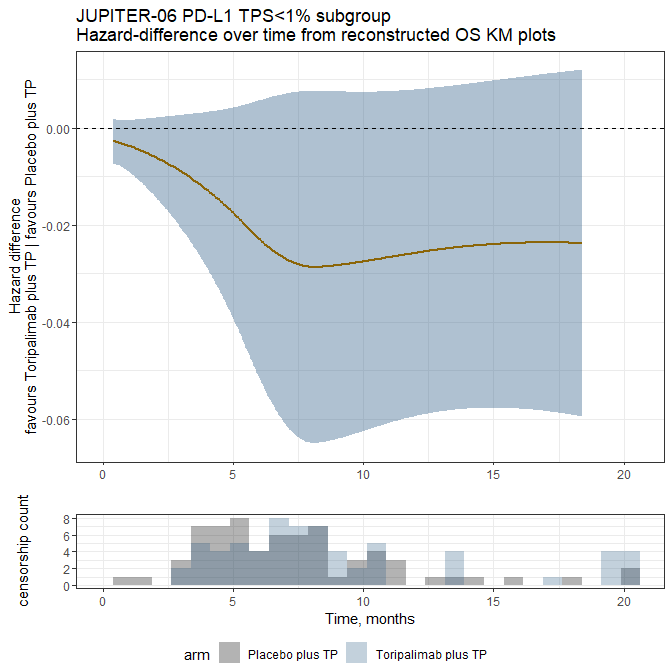
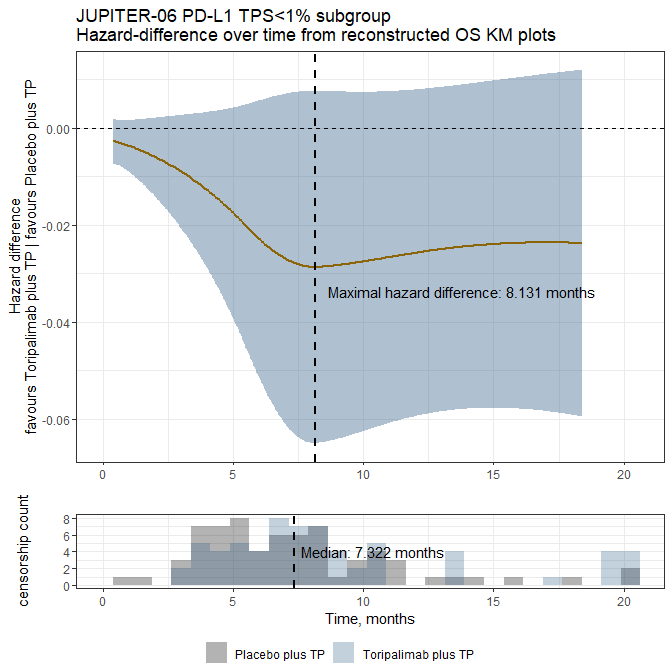
fig labs

diff --git a/README.md b/README.md
@@ -27,7 +27,7 @@ for our Letter in Reply.
 
 ``` r
 package.name=c(# data reconstruction
-  "IPDfromKM",
+  "IPDfromKM", 
   # data manipulation
   "tidyverse", "readr", "readxl", "dplyr", "tidyr", "lubridate", "tibble", "plyr", "devtools", "stringr", "stringi",
   # survival analysis
@@ -179,18 +179,21 @@ for (i.outcome in unique(df$outcome)){
             coord_cartesian(xlim=c(0, 0.9*max(df_temp$time)))+
             geom_hline(yintercept=0, linetype="dashed")+
             labs(color="black", x = "", y = "Hazard difference\nfavours Toripalimab plus TP | favours Placebo plus TP", 
-                 title = paste0("JUPITER-06 PD-L1 TPS<1% subgroup\nHazard-difference over time from reconstructed ", i.outcome, " KM plots"), face="bold")
-  
+                 title = paste0("JUPITER-06 PD-L1 TPS<1% subgroup\nHazard-difference over time from reconstructed ", i.outcome, " KM plots"), face="bold") +
+            geom_vline(xintercept = pred$time[pred$Estimate==min(pred$Estimate)], linetype="dashed", size=0.8) +
+            annotate("text", x=pred$time[pred$Estimate==min(pred$Estimate)]+0.5, y=min(pred$Estimate)-0.005, hjust=0, label=paste0("Maximal hazard difference: ", format(round(pred$time[pred$Estimate==min(pred$Estimate)], 3), nsmall=3), " months"))
   
   # historam for censorship counts
   df_temp_censor=subset(df, df$status==0 & df$outcome==i.outcome)
-    
+  
   plot_censor=ggplot(aes(x=time, fill=arm), data=df_temp_censor)+
     geom_histogram( position="identity", width=0.2, alpha=0.3)+
     theme_bw()+
     coord_cartesian(xlim=c(0, 0.9*max(df_temp$time)))+
-    labs(y="censorship count", x="Time, months")+
-    scale_fill_manual(values=c("black", "steelblue4"))
+    labs(y="censorship count", x="Time, months", fill="")+
+    scale_fill_manual(values=c("black", "steelblue4")) +
+    geom_vline(xintercept = median(df_temp_censor$time), linetype="dashed", size=0.8) +
+            annotate("text", x=median(df_temp_censor$time)+0.3, y=4, hjust=0, label=paste0("Median: ", format(round(median(df_temp_censor$time), 3), nsmall=3), " months"))
   
   ggarrange(plot_timevar, plot_censor, ncol = 1, nrow = 2,
             heights = c(2, 0.5),
